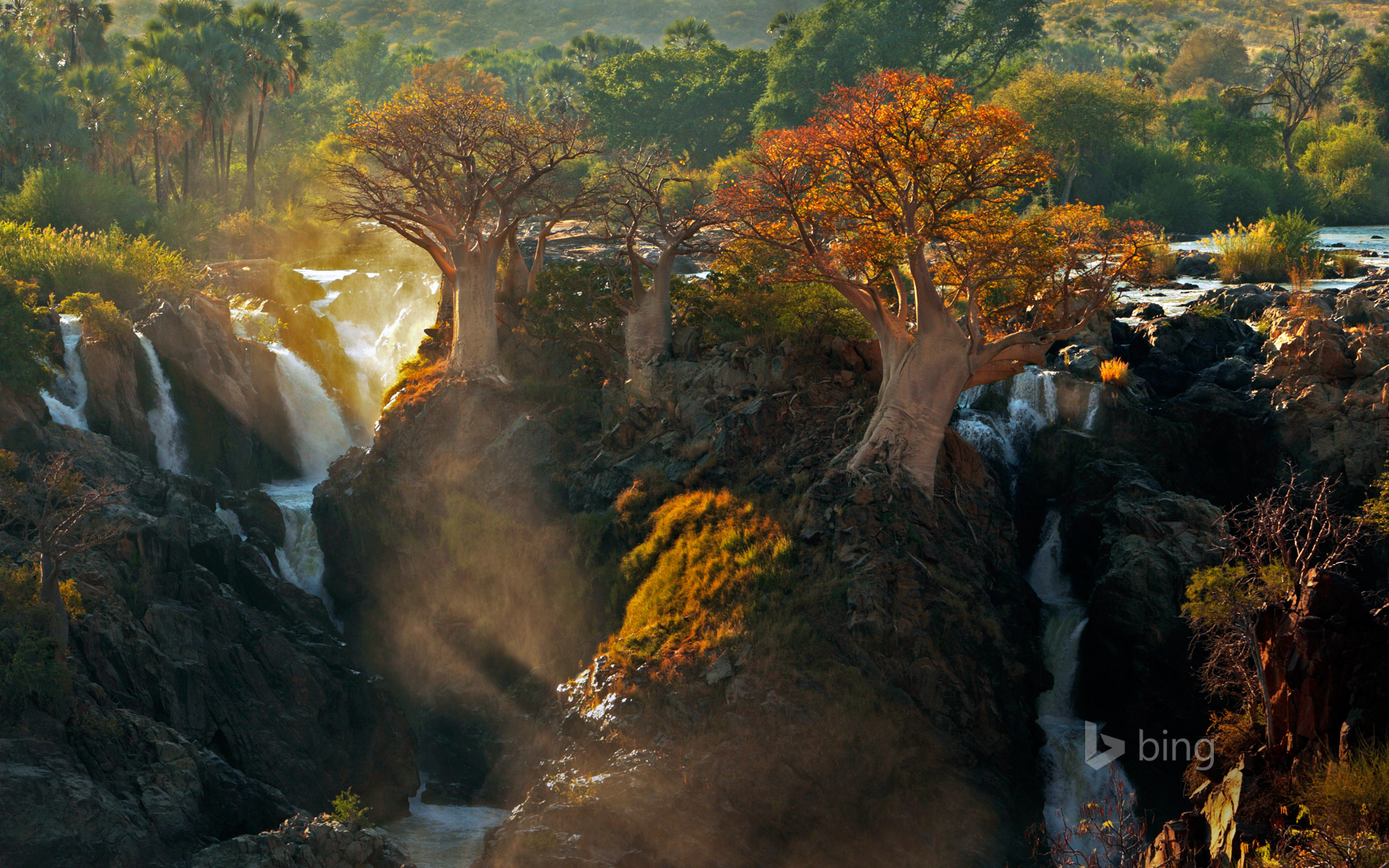
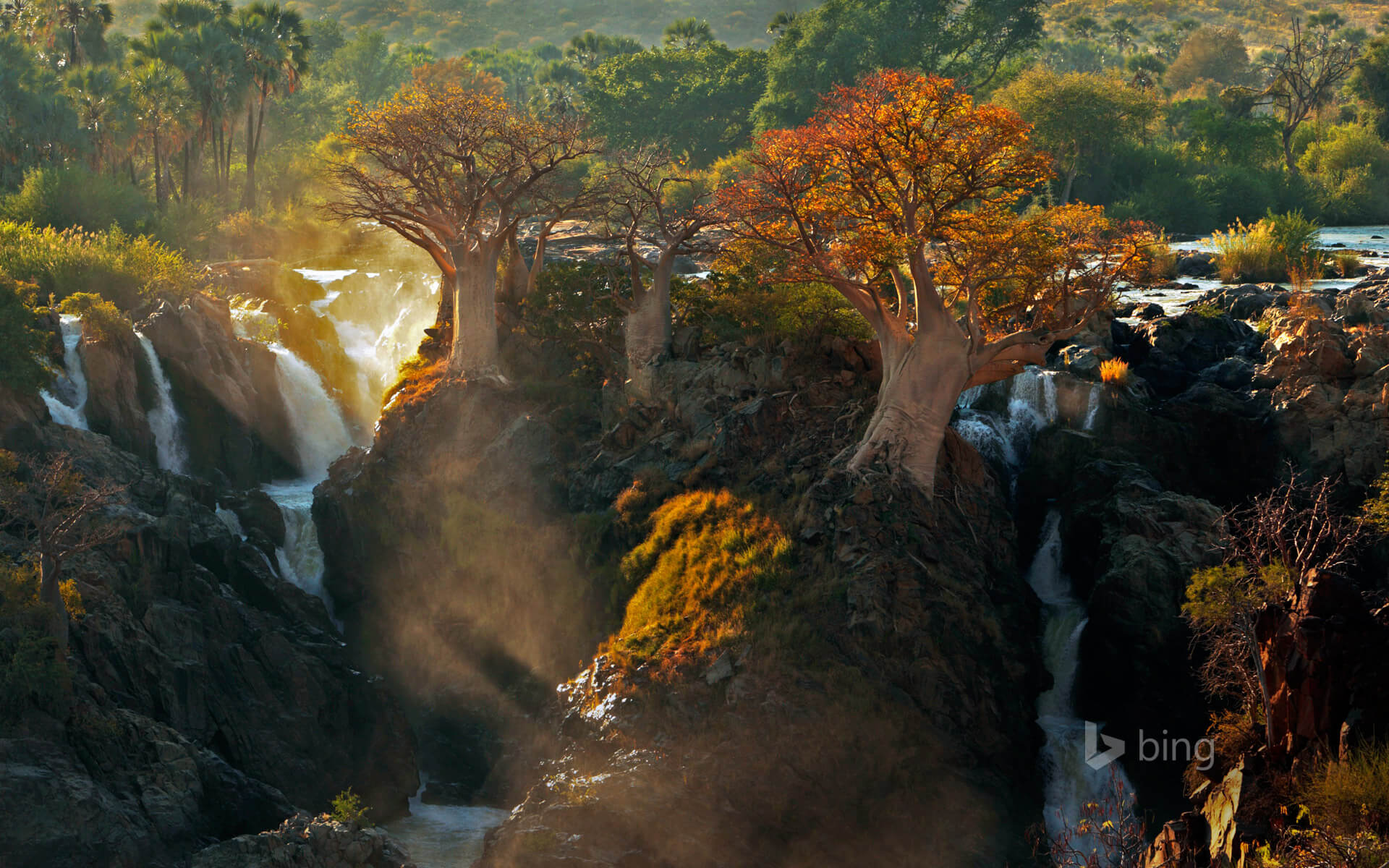
Added files via upload
Reduced the size of images significantly thanks to https://tinypng.com/.
Plus, used SVG files for background.

diff --git a/index.html b/index.html
@@ -102,19 +102,19 @@
 				</p>
 			</div>
 		</div>
-		<div class="masked-page" maskedbkground="sample-wallpaper.jpg" id="home">
+		<div class="masked-page" maskedbkground="sample-wallpaper.svg" id="home">
 			<div class="slide">
 				<h1 align=center>So, welcome to MSD Web Framework.</h1>
 				<h3>Please keep scrolling down... A long way!. Or, use navigation from left toggling pane.</h3>
 			</div>
 		</div>
-		<div class="masked-page" maskedbkground="sample-wallpaper-2.jpg" id="tables">
+		<div class="masked-page" maskedbkground="sample-wallpaper-2.svg" id="tables">
 			<div class="slide">
 				<h1>Ever worried to make tables in your website look *Modern*?</h1>
 				<h1 class="text-center">There is a solution down there...</h1>
 			</div>
 		</div>
-		<div class="masked-page" maskedbkground="sample-wallpaper-2.jpg">
+		<div class="masked-page" maskedbkground="sample-wallpaper-2.svg">
 			<div class="slide-full">
 				<table class="table highlight-alternate" style="width: 50%;">
 				<tr>
@@ -164,13 +164,13 @@
 			</table>
 			</div>
 		</div>
-		<div class="masked-page" maskedbkground="sample-wallpaper-3.jpg" id="cards">
+		<div class="masked-page" maskedbkground="sample-wallpaper-3.svg" id="cards">
 			<div class="slide">
 				<h1>Ever heard of or tried to make or use 'Cards'?</h1>
 				<h1 class="text-center">Well, you've got a lot of choices here !!</h1>
 			</div>
 		</div>
-		<div class="masked-page" maskedbkground="sample-wallpaper-3.jpg">
+		<div class="masked-page" maskedbkground="sample-wallpaper-3.svg">
 			<div class="slide-full">
 				<h1 class="text-center">Normal Cards</h1>
 				<div class="page-row">
@@ -204,7 +204,7 @@
 				</div>
 			</div>
 		</div>
-		<div class="masked-page" maskedbkground="sample-wallpaper-3.jpg">
+		<div class="masked-page" maskedbkground="sample-wallpaper-3.svg">
 			<div class="slide-full">
 				<h1 class="text-center">Number Cards</h1>
 				<div class="page-row">
@@ -223,7 +223,7 @@
 				</div>
 			</div>
 		</div>
-		<div class="masked-page" maskedbkground="sample-wallpaper-3.jpg">
+		<div class="masked-page" maskedbkground="sample-wallpaper-3.svg">
 			<div class="slide-full">
 				<h1 class="text-center">Picture Cards</h1>
 				<div class="page-row">
@@ -254,7 +254,7 @@
 				</div>
 			</div>
 		</div>
-		<div class="masked-page" maskedbkground="sample-wallpaper-4.jpg" id="HTMLdb">
+		<div class="masked-page" maskedbkground="sample-wallpaper-4.svg" id="HTMLdb">
 			<div class="slide">
 				<h1 class="text-center">Say hi to Dialogue Boxes. A new Thing in Webpage!!</h1>
 				Exapmle -
@@ -303,13 +303,13 @@
 				</div>
 			</div>
 		</div>
-		<div class="masked-page" maskedbkground="sample-wallpaper-5.jpg" id="LAnimations">
+		<div class="masked-page" maskedbkground="sample-wallpaper-5.svg" id="LAnimations">
 			<div class="slide">
 				<h1 class="text-center">Some Loading Animation for Webpage</h1>
 				<h3 align=center>Scroll Down !! </h3>
 			</div>
 		</div>
-		<div class="masked-page" maskedbkground="sample-wallpaper-5.jpg">
+		<div class="masked-page" maskedbkground="sample-wallpaper-5.svg">
 			<div class="slide-full">
 				<h1 class="text-center">Some Loading Animation for Webpage</h1>
 				<h3 align=right>More are to come!!</h3>
@@ -322,7 +322,7 @@
 				</div>
 			</div>
 		</div>
-		<div class="masked-page" maskedbkground="sample-wallpaper-3.jpg" id="tbn">
+		<div class="masked-page" maskedbkground="sample-wallpaper-3.svg" id="tbn">
 			<div class="slide">
 				<h1 class="text-center">Tabination</h1>
 				Exapmle - Did you liked this framework?
@@ -358,13 +358,13 @@
 				</div>
 			</div>
 		</div>
-		<div class="masked-page" maskedbkground="sample-wallpaper.jpg" id="pgrsbrs">
+		<div class="masked-page" maskedbkground="sample-wallpaper.svg" id="pgrsbrs">
 			<div class="slide">
 				<h1 class="text-center">Progress Bars</h1>
 				<h3 align=center>Making progress bars are very easy now plus it has got flavours!</h3>
 			</div>
 		</div>
-		<div class="masked-page" maskedbkground="sample-wallpaper.jpg">
+		<div class="masked-page" maskedbkground="sample-wallpaper.svg">
 			<div class="slide-full">
 				<div style="width: 100%; text-align: center;">
 				<div class="page-row">
@@ -390,7 +390,7 @@
 				</div>
 			</div>
 		</div>
-		<div class="masked-page" maskedbkground="sample-wallpaper-2.jpg" id="mscrolling">
+		<div class="masked-page" maskedbkground="sample-wallpaper-2.svg" id="mscrolling">
 			<div class="slide">
 				<h1 class="text-center">Did I left something?</h1>
 				<br /><br />
